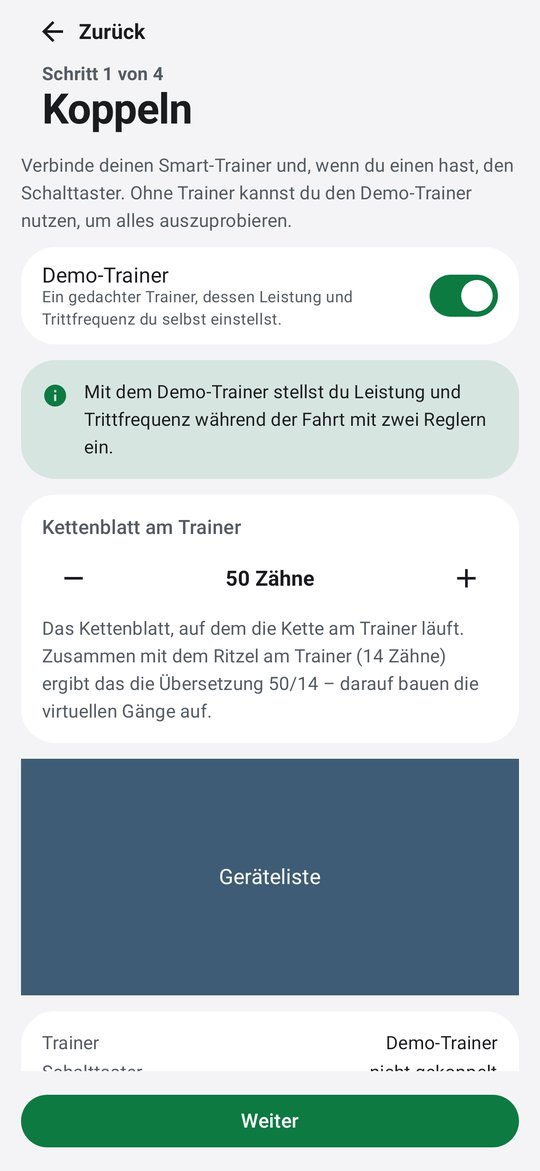
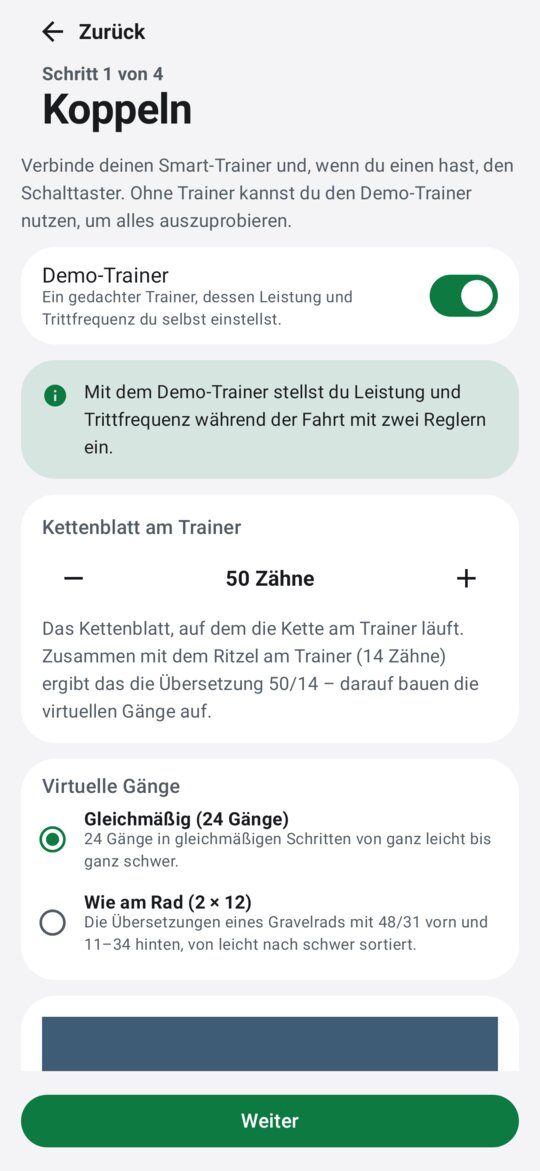
Indoor-Doku: Integration der drei Teile festgehalten
Gangtabelle, Tausch der Sitzung bei gemeldeten Fähigkeiten, Besitz der
Rohre, Schalttaster je Fahrt; Bilder 91 und 109 neu.

Claude-Session: https://claude.ai/code/session_01E3qQ7igiwJ5XhZcxMS3ipo

Changed region(s): [[0.0296, 0.6456, 0.9778, 0.9223]]

diff --git a/docs/indoor/app.md b/docs/indoor/app.md
@@ -16,8 +16,8 @@ als Soll-Zustand des Prototyps.
   statt des `HttpClient`-Interface (Kacheln sind Bytes, das Interface liefert
   Text). Keine Weiterleitungen, User-Agent `Trailscape/<Version>`.
 - **Nach Prozesstod beginnt der Ablauf neu bei „Koppeln“.** Es wird weder die
-  laufende Fahrt noch die Auswahl wiederhergestellt (nur der Demo-Schalter
-  und das Kettenblatt bleiben in den SharedPreferences). Der Vertrag verlangt mehr nicht.
+  laufende Fahrt noch die Auswahl wiederhergestellt (nur der Demo-Schalter,
+  das Kettenblatt und die Gangtabelle bleiben in den SharedPreferences). Der Vertrag verlangt mehr nicht.
 - **Zurück während der Fahrt** verlässt den Ablauf nie: Die Fahrt hält an, ein
   Dialog bietet „Weiterfahren“ oder „Fahrt beenden“ (dann Auswertung, dort
   speichern oder verwerfen). In der Auswertung fragt Zurück bei einer
@@ -67,9 +67,39 @@ als Soll-Zustand des Prototyps.
   (`IndoorViewModel.ZWIFT_COG_TEETH`). Beim Start der Fahrt bekommt die
   Sitzung `IndoorParts.riderSetup(...).copy(realGearRatio = Kettenblatt / 14)`
   — auch auf dem Ersatzweg, wenn der Kern `riderSetup` nicht liefert.
-  `RiderSetup` selbst bleibt unverändert (Vertrag). Bietet der Kern später eine
-  Gangtabelle an, ist diese Einstellung dort anbindbar; bis dahin bezieht der
-  Kern seine virtuellen Gänge allein auf `realGearRatio`.
+  `RiderSetup` selbst bleibt unverändert (Vertrag).
+- Gangtabelle (seit der Integration): Karte „Virtuelle Gänge“ im Schritt
+  *Koppeln* mit „Gleichmäßig (24 Gänge)“ (`VirtualGearTable.EVEN`, Vorgabe)
+  und „Wie am Rad (2 × 12)“ (`BIKE_GRX_2X12`); Schlüssel
+  `trailscape.indoor.gear_table` (Enum-Name, Unbekanntes → Vorgabe). Die
+  Sitzung bekommt `riderSetup(...).copy(realGearRatio = …, gearTable = …)`.
+  Die Grenzen der Ersatzsteigung (`minSimGradePct`/`maxSimGradePct`) bleiben
+  bei der Vorgabe des Kerns (−40..+40 %); der Trainer klemmt ohnehin selbst
+  (KICKR −10..+20 %). Eine Einstellung dafür lohnt erst nach der Kalibrierung
+  auf dem Gerät.
+- Fähigkeiten des Trainers (seit der Integration): Die Sitzung startet mit der
+  Annahme `TrainerCapabilities(simulation = true, targetPower = true)`
+  (`IndoorViewModel.ASSUMED_CAPABILITIES`), weil `IndoorSessionConfig` sie beim
+  Anlegen verlangt und der Trainer sie erst mit `READY` meldet. Meldet er
+  andere, solange die Sitzung noch in `READY` auf den ersten Tritt wartet,
+  tauscht die Laufzeit die Sitzung **einmal** gegen eine neue mit den
+  gemeldeten Fähigkeiten (`IndoorRideRuntime.rebuildSession`); Schalten und
+  ERG-Verschiebungen bis dahin werden übertragen. Kommen sie erst nach dem
+  ersten Tritt (z. B. weil ein FTMS-Trainer schon vor „Request Control“
+  Leistung meldet) oder nach einem Neuverbinden mitten in der Fahrt, bleibt es
+  bei der Annahme: Eine laufende Sitzung lässt sich ohne Vertragsänderung
+  (`IndoorSession` hat keinen Setter) nicht umstellen. Wirkung heute nur die
+  Klemmung der ERG-Zielleistung auf `min/maxPowerW`.
+- Rohre: Jedes `openLink`-Rohr gehört dem Trainer bzw. Schalttaster, der es
+  bekommt; dessen `stop()` schließt es (die Laufzeit ruft `stop()` beim
+  Beenden und Verwerfen der Fahrt, `onCleared` verwirft). Scheitert der Start,
+  bevor ein Trainer/Taster das Rohr übernommen oder gestartet hat, schließt
+  `startRide` es selbst. `IndoorDevices.forget()` schließt kein Rohr — muss es
+  auch nicht: Während einer Fahrt ist der Abschnitt zum Koppeln nicht
+  erreichbar, und die Fahrt gibt ihr Rohr am Ende selbst frei.
+- Schalttaster: je Fahrt eine neue Instanz. Meldet er `UNSUPPORTED`, bleibt er
+  es für diese Fahrt (er schließt sein Rohr dann selbst); der nächste Versuch
+  ist die nächste Fahrt.
 - Laufzeit (`IndoorRideRuntime`): 10-Hz-Schleife auf einem eigenen seriellen
   Dispatcher, Uhr injizierbar (Vorgabe `SystemClock.elapsedRealtime`).
   Telemetrie und Schaltereignisse vom BLE-Thread werden nur abgelegt. Jeder
@@ -176,20 +206,30 @@ aus `IndoorScreenshotTest`. Die Slots der anderen Slices (Geräteliste, 3D-Fläc
 sind darin blaue Platzhalter; echte Darstellung und Geräteliste zeigen erst
 die Bilder aus dem Gerätetest.
 
-90 Karte auf *Heute*, 91 Koppeln (Kettenblatt 48), 92 Strecke (freie Fahrt,
+90 Karte auf *Heute*, 91 Koppeln (Kettenblatt 48, Gangtabelle), 92 Strecke (freie Fahrt,
 Frühere Fahrt), 93 Strecke (Einheit des Tages, feste Leistung), 94 Voranschlag
 der Welt, 95 Bau mit Fortschritt, 96 Fehler beim Bau, 97 Fahren mit
 Mitfahrer, 98 Fahren im ERG-Modus, 99 Fahren ohne Darstellung, 100 Fahren
 ohne Welt, 101 Hinweis bei Trainerverlust, 102 Querformat (Kamera und Pause
 untereinander), 103 Auswertung gespeichert, 104 Auswertung unter 60 s,
 105 Weltverwaltung, 106 und 107 Englisch, 108 kleines Gerät (360 × 640 dp) mit
-Demo-Reglern, 109 Koppeln mit Demo-Trainer.
+Demo-Reglern, 109 Koppeln mit Demo-Trainer. Nur in
+`app/build/outputs/roborazzi/` (nicht unter `docs/`): 110 und 111 Koppeln mit
+dem echten Abschnitt von indoor-ble (ohne Berechtigung bzw. gekoppelt mit
+laufender Suche), als hohes Bild der ganzen Seite.
+
+Integration: Im Schritt *Koppeln* stand zuerst unter dem Abschnitt von
+indoor-ble eine zweite Liste der gemerkten Geräte samt Hinweis „Schalttaster
+optional“ — doppelt zum Abschnitt selbst. Sie ist entfernt; der Abschnitt
+steht jetzt in einer Karte wie die übrigen.
 
 ## Bitte an andere Slices
 
-- **indoor-core:** `IndoorParts`-Einstiege (`riderSetup`, Sitzung, Aufzeichnung)
-  liefern; sie werfen auf diesem Branch `NotImplementedError`. Eine Gangtabelle
-  anbieten, an die das Kettenblatt anbindbar ist (bisher nur `realGearRatio`).
+- **indoor-core:** ~~`IndoorParts`-Einstiege liefern; Gangtabelle anbieten~~ —
+  erledigt mit dem Merge (Einstiege echt, `RiderSetup.gearTable` angebunden).
+  Offen, falls gewünscht: `IndoorSession` könnte die Fähigkeiten des Trainers
+  auch nach dem ersten Tritt übernehmen (heute nur über eine neue Sitzung vor
+  dem Start, siehe Entscheidungen).
 - **indoor-world:** Weltbau, `isCancelled()` zügig abfragen (der Slice wartet
   auf das Ende des abgelösten Baus), Weltverzeichnis und Manifest.
 - **indoor-ble:** die Geräteliste im Schritt *Koppeln* (`devicesSection`) und die
